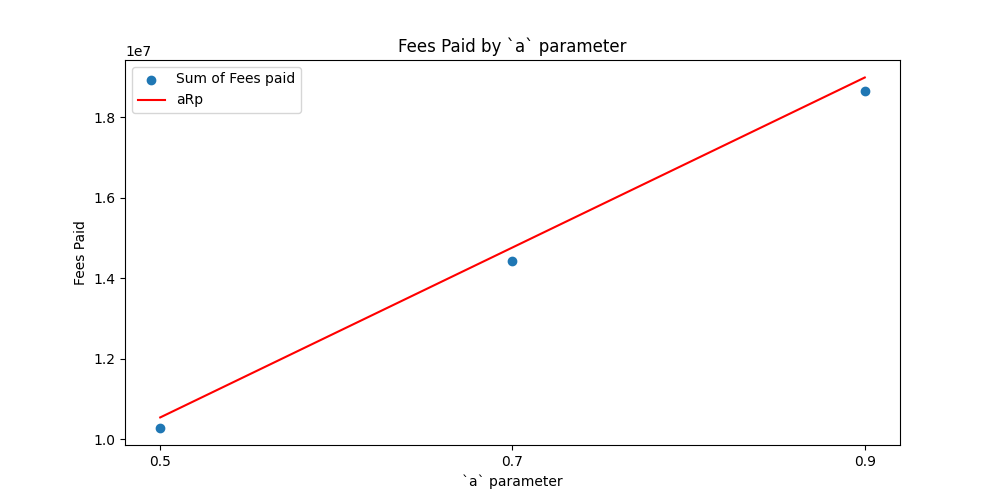
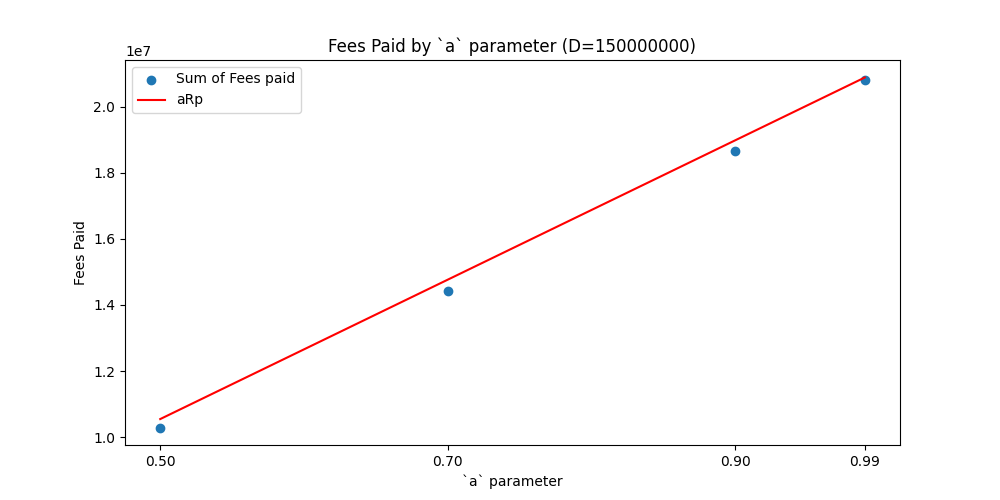
try wonky open interest

diff --git a/trading_mechanisms/analysis.py b/trading_mechanisms/analysis.py
@@ -242,7 +242,7 @@ def plot9(open_interest, R, alpha):
 def plot10(open_interest, R, p, alpha):
     fig, ax = plt.subplots(1, 1, figsize=(10, 5))
 
-    a_param_values = [0.1, 0.3, 0.5, 0.7, 0.9][2:]
+    a_param_values = [0.1, 0.3, 0.5, 0.7, 0.9, .99][2:]
     sums = []
     for a_param_value in a_param_values:
         _, f_mkt = find_equilibrium_a(a_param_value, open_interest, n=1000, R=R, alpha=alpha, p=p, num_whales=10, whale_alpha=100)
@@ -256,7 +256,7 @@ def plot10(open_interest, R, p, alpha):
     ax.plot(a_ticks, y, color="red", label="aRp")
 
     ax.legend()
-    ax.set_title('Fees Paid by `a` parameter')
+    ax.set_title(f'Fees Paid by `a` parameter (D={open_interest})')
     ax.set_ylabel('Fees Paid')
     ax.set_xlabel('`a` parameter')
 
@@ -271,7 +271,7 @@ def main():
     R = 3_835_616
     p = 5.5
     alpha = 0.003
-    open_interest = 1_500_000_000
+    open_interest = 150_000_000
 
     # # (1) Individual profit curve with black dot on maximum
     # print("Generating plot 1... ")
